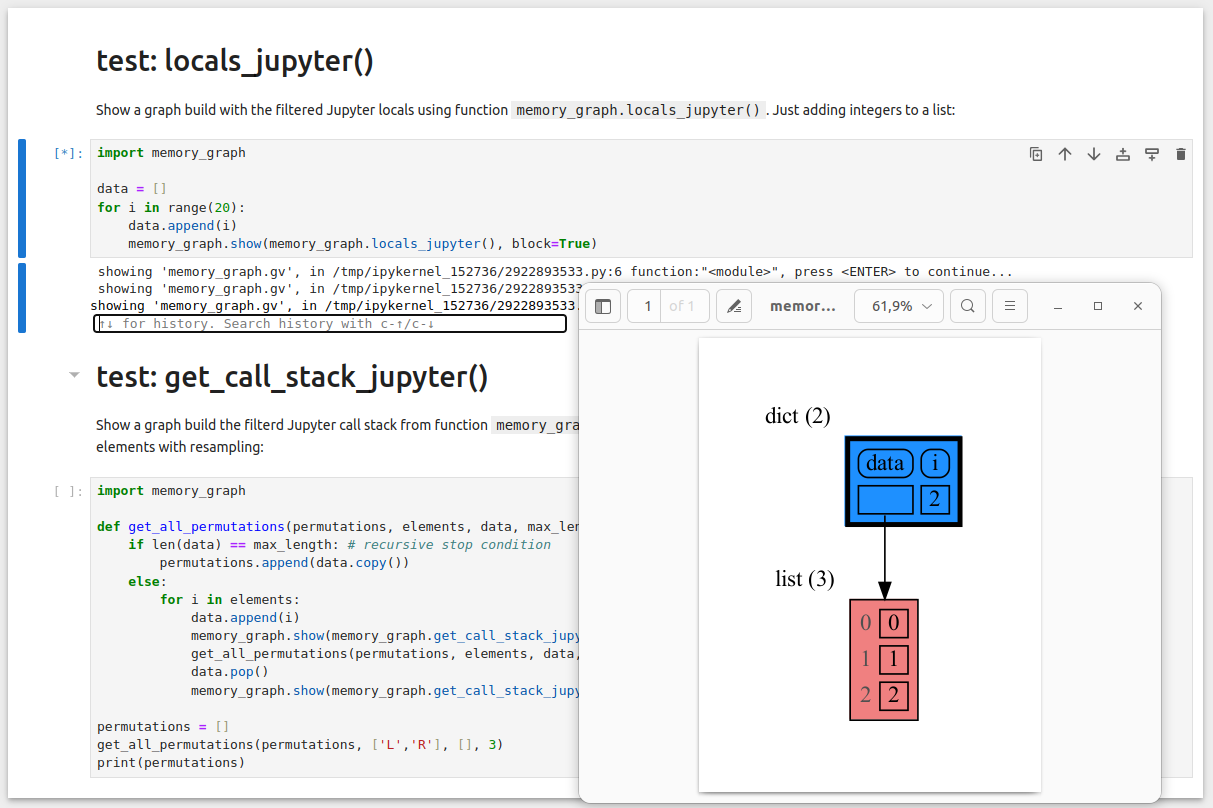
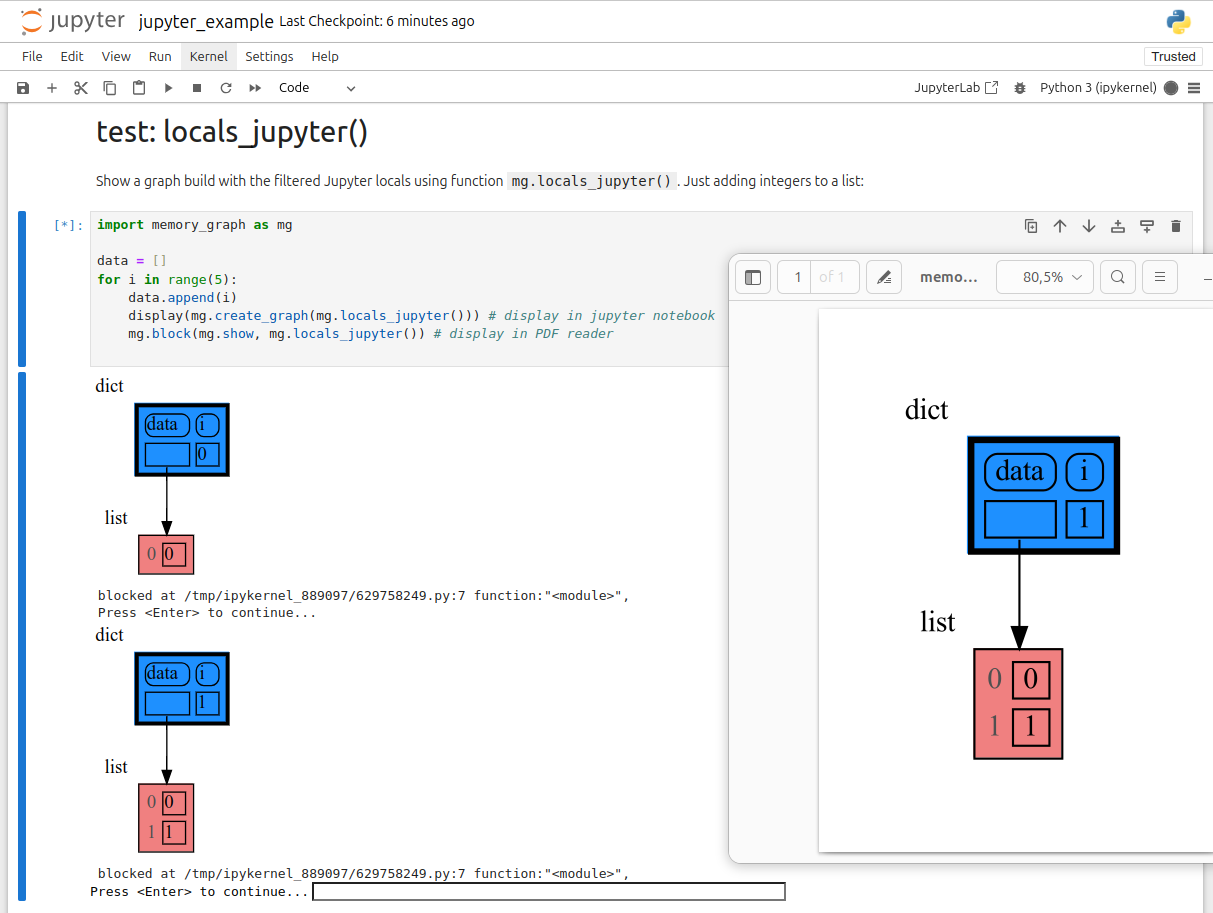
inline render of graph in Jupyter Notebook

diff --git a/setup.py b/setup.py
@@ -7,7 +7,7 @@ long_description_from_readme = (this_directory / "README.md").read_text()
 
 setup(
     name = 'memory_graph',
-    version = '0.3.06',
+    version = '0.3.07',
     description = 'Draws a graph of your data to analyze its structure.',
     long_description = long_description_from_readme,
     long_description_content_type = 'text/markdown',

diff --git a/memory_graph/__init__.py b/memory_graph/__init__.py
@@ -9,7 +9,7 @@ import sys
 
 import graphviz
 
-__version__ = "0.3.06"
+__version__ = "0.3.07"
 __author__ = 'Bas Terwijn'
 
 def get_source_location(stack_index):

diff --git a/README.md b/README.md
@@ -69,6 +69,7 @@ Instead of showing the graph you can also render it to an output file of your ch
 
 ```python
 mg.render(data, "my_graph.pdf")
+mg.render(data, "my_graph.svg")
 mg.render(data, "my_graph.png")
 mg.render(data, "my_graph.gv") # Graphviz DOT file
 ```
@@ -318,8 +319,8 @@ To simplify debugging without a debugger tool, we offer these blocking alias fun
 
 | alias | purpose | function call |
 |:---|:---|:---|
-| `mg.l()` | graph **l**ocal variables | `mg.block(mg.show, locals())` |
-| `mg.s()` | graph the call **s**tack | `mg.block(mg.show, mg.get_call_stack())` |
+| `mg.l()` | graph **l**ocal variables and block | `mg.block(mg.show, locals())` |
+| `mg.s()` | graph the call **s**tack and block | `mg.block(mg.show, mg.get_call_stack())` |
 
 For example, executing this program:
 
@@ -546,8 +547,14 @@ mg.show(locals())
 ![extension_pandas.png](https://raw.githubusercontent.com/bterwijn/memory_graph/main/images/extension_pandas.png)
 
 ## Jupyter Notebook ##
+In Jupyter Notebook `locals()` has additional variables that cause problems in the graph, use `mg.locals_jupyter()` to get the local variables with these problematic variables filtered out. Use `mg.get_call_stack_jupyter()` to get the whole call stack with these variables filtered out.
 
-In Jupyter Notebook `locals()` has additional variables that cause problems in the graph, use `mg.locals_jupyter()` to get the local variables with these problematic variables filtered out. Use `mg.get_call_stack_jupyter()` to get the whole call stack with these variables filtered out. 
+We can use `mg.show()` and `mg.render()` in a Jupyter Notebook, but alternatively we can also use `mg.create_graph()` to create a graph and the `display()` function to render it inline with for example:
+
+```python
+display( mg.create_graph(mg.locals_jupyter()) )          # display the local variables inline
+mg.block(display, mg.create_graph(mg.locals_jupyter()) ) # the same but blocked
+```
 
 See for example [jupyter_example.ipynb](https://raw.githubusercontent.com/bterwijn/memory_graph/main/images/jupyter_example.ipynb).
 ![jupyter_example.png](https://raw.githubusercontent.com/bterwijn/memory_graph/main/images/jupyter_example.png)
